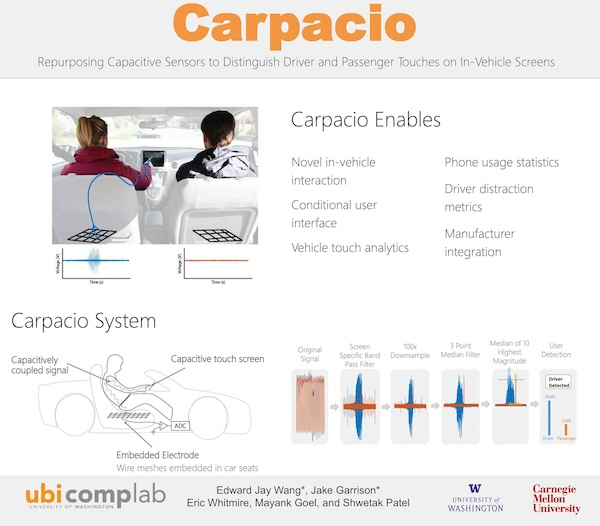
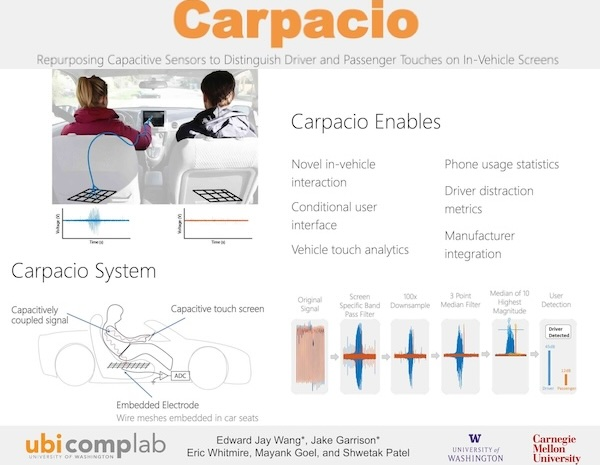
fixed images

diff --git a/index.html b/index.html
@@ -1551,8 +1551,54 @@
 							</div> -->
 							<!-- End publications Data -->
 							<div class="break"></div>
+							<h4>Patents</h4>
+							<p>
+								<a target="_blank"
+									href='https://patents.google.com/?inventor=%22Jacob+Garrison%22,%22Jake+Garrison%22&assignee=Google+Llc&after=priority:20170101'>
+									<b>Google Patents</b>
+								</a>
+							</p>
+							<div class="g1">
+								<div class="image">
+									<h6>Method for detecting and classifying coughs or other non-semantic sounds using
+										audio feature set learned from speech</h6>
+									<img src="image/US11862188.jpg" alt="">
+									<div class="image-overlay">
+										<div class="image-link">
+											<a target="_blank" href="https://patents.google.com/patent/US11862188B2"
+												class="btn">View Patent</a>
+										</div>
+									</div>
+								</div>
+							</div>
+							<div class="g1">
+								<div class="image">
+									<h6>Contactless cough detection and attribution</h6>
+									<img src="image/US11627890.jpg" alt="">
+									<div class="image-overlay">
+										<div class="image-link">
+											<a target="_blank" href="https://patents.google.com/patent/US11627890B2"
+												class="btn">View Patent</a>
+										</div>
+									</div>
+								</div>
+							</div>
+							<div class="g1">
+								<div class="image">
+									<h6>Contactless sleep detection and disturbance attribution</h6>
+									<img src="image/WO2022035526A1.jpg" alt="">
+									<div class="image-overlay">
+										<div class="image-link">
+											<a target="_blank" href="https://patents.google.com/patent/WO2022035526A1"
+												class="btn">View Patent</a>
+										</div>
+									</div>
+								</div>
+							</div>
+							<!-- End Patents Data -->
+							<div class="break"></div>
 							<!-- Writeups Tab Data -->
-							<h4>Writeups</h4>
+							<h4>Academic Writeups</h4>
 							<div class="g1">
 								<div class="image">
 									<h6>Urban Parking AI</h6>
@@ -1600,78 +1646,10 @@
 									</div>
 								</div>
 							</div>
-							<div class="break"></div>
-							<h4>Patents</h4>
-							<p>
-								<a target="_blank"
-									href='https://patents.google.com/?inventor=%22Jacob+Garrison%22,%22Jake+Garrison%22&assignee=Google+Llc&after=priority:20170101'>
-									<b>Google Patents</b>
-								</a>
-							</p>
-							<div class="g1">
-								<div class="image">
-									<h6>Method for detecting and classifying coughs or other non-semantic sounds using
-										audio feature set learned from speech</h6>
-									<img src="image/US11862188.jpg" alt="">
-									<div class="image-overlay">
-										<div class="image-link">
-											<a target="_blank" href="https://patents.google.com/patent/US11862188B2"
-												class="btn">View Patent</a>
-										</div>
-									</div>
-								</div>
-							</div>
-							<div class="g1">
-								<div class="image">
-									<h6>Contactless cough detection and attribution</h6>
-									<img src="image/US11627890.jpg" alt="">
-									<div class="image-overlay">
-										<div class="image-link">
-											<a target="_blank" href="https://patents.google.com/patent/US11627890B2"
-												class="btn">View Patent</a>
-										</div>
-									</div>
-								</div>
-							</div>
-							<div class="g1">
-								<div class="image">
-									<h6>Contactless sleep detection and disturbance attribution</h6>
-									<img src="image/WO2022035526A1.jpg" alt="">
-									<div class="image-overlay">
-										<div class="image-link">
-											<a target="_blank" href="https://patents.google.com/patent/WO2022035526A1"
-												class="btn">View Patent</a>
-										</div>
-									</div>
-								</div>
-							</div>
 							<!-- End writeups Data -->
 							<div class="break"></div>
 							<!-- Posters Tab Data -->
-							<h4>Posters</h4>
-							<div class="g1">
-								<div class="image">
-									<h6>Phone AI</h6>
-									<img src="image/Smartphone_identification_poster.jpg" alt="">
-									<div class="image-overlay">
-										<div class="image-link">
-											<a target="_blank" href="doc/Smartphone_identification_poster.pdf"
-												class="btn">View</a>
-										</div>
-									</div>
-								</div>
-							</div>
-							<div class="g1">
-								<div class="image">
-									<h6>3D Printing AI Monitor</h6>
-									<img src="image/3DP_Poster.jpg" alt="">
-									<div class="image-overlay">
-										<div class="image-link">
-											<a target="_blank" href="doc/3DP_Poster.pdf" class="btn">View</a>
-										</div>
-									</div>
-								</div>
-							</div>
+							<h4>Academic Posters</h4>
 							<div class="g1">
 								<div class="image">
 									<h6>Carpacio Driver Identification</h6>
@@ -1690,6 +1668,29 @@
 									<div class="image-overlay">
 										<div class="image-link">
 											<a target="_blank" href="doc/SpiroPoster_poster.pdf" class="btn">View</a>
+										</div>
+									</div>
+								</div>
+							</div>
+							<div class="g1">
+								<div class="image">
+									<h6>3D Printing AI Monitor</h6>
+									<img src="image/3DP_Poster.jpg" alt="">
+									<div class="image-overlay">
+										<div class="image-link">
+											<a target="_blank" href="doc/3DP_Poster.pdf" class="btn">View</a>
+										</div>
+									</div>
+								</div>
+							</div>
+							<div class="g1">
+								<div class="image">
+									<h6>Phone AI</h6>
+									<img src="image/Smartphone_identification_poster.jpg" alt="">
+									<div class="image-overlay">
+										<div class="image-link">
+											<a target="_blank" href="doc/Smartphone_identification_poster.pdf"
+												class="btn">View</a>
 										</div>
 									</div>
 								</div>

diff --git a/CHANGELOG.md b/CHANGELOG.md
@@ -1,6 +1,6 @@
 # Changelog
 ---------------
-#### 6/20/24
+#### 6/20/24 to 7/XX/24
 * move CV ai stuff under ML and rename ML AI, also drivaer awareness
 * Under papers add Writups section for school projects
 * Change acedemeics to School (achedemic echocs)
@@ -17,6 +17,7 @@
 * Update Google Research
 * Cleaned up css alot and updated to vscode minify tool
 * added dark mode toggle and cleaned up css more
+* resized paper/poster ect and reordered
 
 * Add Papers
   * FRILL A Non-Semantic Speech Embedding for Mobile Devices.pdf
